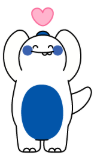
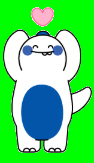
티노 이미지 수정

diff --git a/Mario/main.cpp b/Mario/main.cpp
@@ -3414,7 +3414,7 @@ void Image_::DrawBackGround(int x, int y, HDC targetDC) {
 						int offsetX = girlfriend.x - cameraX;
 						if (offsetX + girlfriend.width > 0 && offsetX < wRect.right) {
 							girlfriendImage.TransparentBlt(targetDC, offsetX, girlfriend.y, girlfriend.width, girlfriend.height,
-								0, 0, girlfriendImage.GetWidth(), girlfriendImage.GetHeight(), RGB(255, 255, 255));
+								0, 0, girlfriendImage.GetWidth(), girlfriendImage.GetHeight(), RGB(0, 255, 0));
 						}
 					}
 				}
